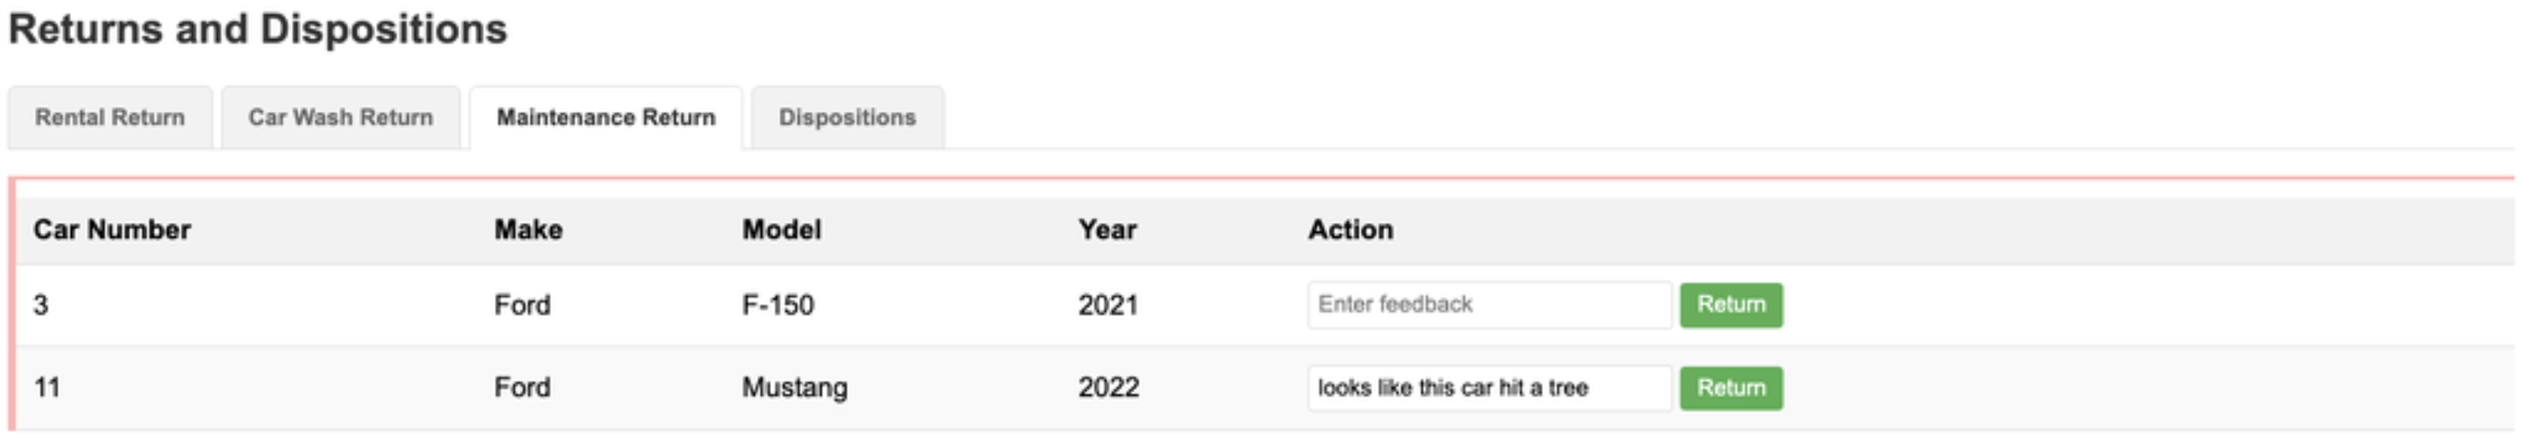
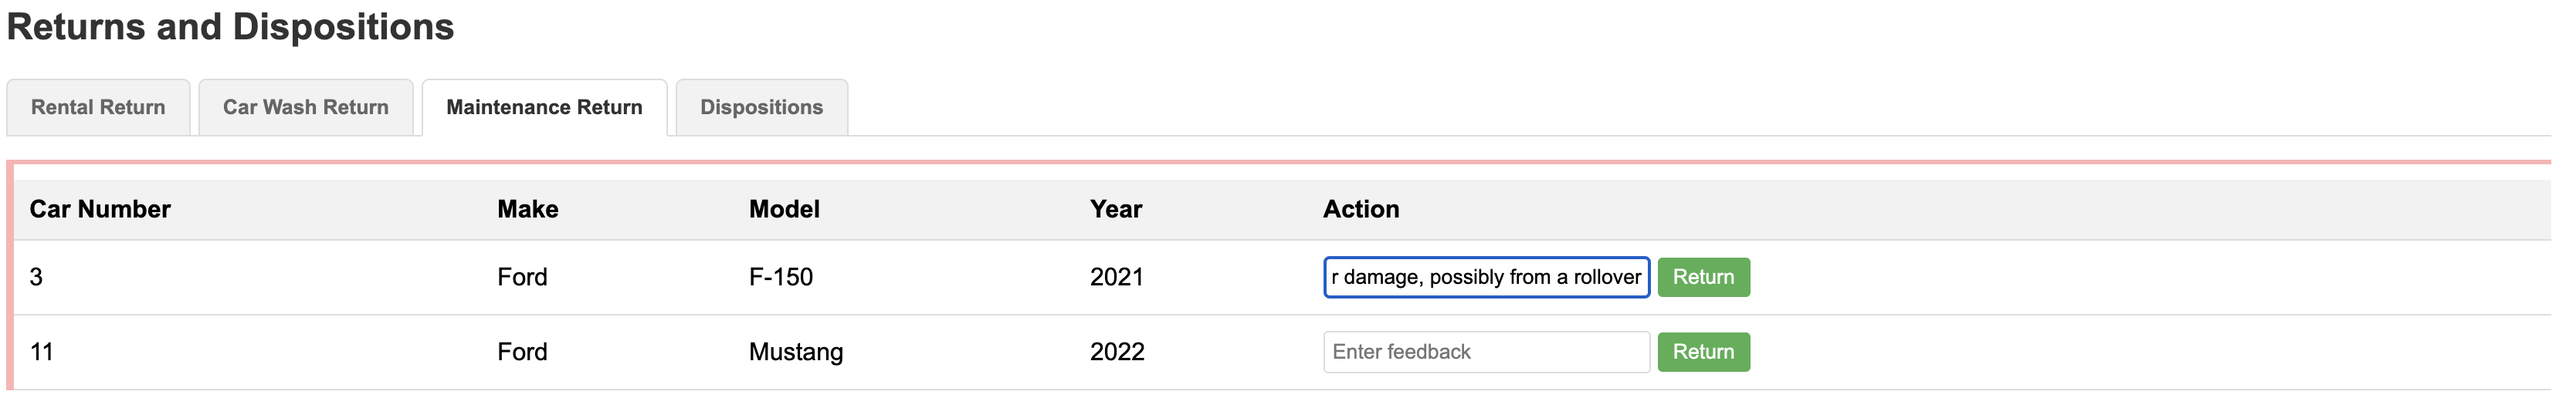
clarify section-2 step-04

diff --git a/docs/docs/section-2/step-04.md b/docs/docs/section-2/step-04.md
@@ -71,7 +71,7 @@ Create a `DispositionFeedbackAgent` to analyze the feedback from rental returns,
 
 In the system prompt, instruct the agent to include `DISPOSITION_NOT_REQUIRED` in its response if the car is in decent shape so that we can easily check for that string when we build our conditional agents.
 
-Create the file in your `src/main/java/com/carmanagement/agentic/agents` directory.
+Create the file in your `multi-agent-system/src/main/java/com/carmanagement/agentic/agents` directory.
 
 ```java hl_lines="17" title="DispositionFeedbackAgent.java"
 --8<-- "../../section-2/step-04/multi-agent-system/src/main/java/com/carmanagement/agentic/agents/DispositionFeedbackAgent.java"
@@ -81,7 +81,7 @@ Create the file in your `src/main/java/com/carmanagement/agentic/agents` directo
 
 For the disposition agent, in Quarkus runtime 1 we need to create an agent to be used as a type-safe interface for us to invoke the remote A2A agent. This agent will not need to interact with LLMS, so it shouldn't have system message or user message annotations. The parameters we define on the agent method define what will be sent to the remote agent.
 
-Create the file in your `src/main/java/com/carmanagement/agentic/agents` directory.
+Create the file in your `multi-agent-system/src/main/java/com/carmanagement/agentic/agents` directory.
 
 ```java title="DispositionAgent.java"
 --8<-- "../../section-2/step-04/multi-agent-system/src/main/java/com/carmanagement/agentic/agents/DispositionAgent.java"
@@ -91,7 +91,7 @@ Create the file in your `src/main/java/com/carmanagement/agentic/agents` directo
 
 We need to extend our ActionWorkflow to accept the disposition feedback agent's output. The `DispositionFeedbackAgent` uses an `outputName` of `dispositionRequest`.
 
-Update the file in your `src/main/java/com/carmanagement/agentic/workflow` directory.
+Update the file in your `multi-agent-system/src/main/java/com/carmanagement/agentic/workflow` directory.
 
 ```java hl_lines="10" title="ActionWorkflow.java"
 --8<-- "../../section-2/step-04/multi-agent-system/src/main/java/com/carmanagement/agentic/workflow/ActionWorkflow.java:actionWorkflow"
@@ -101,7 +101,7 @@ Update the file in your `src/main/java/com/carmanagement/agentic/workflow` direc
 
 Similarly, we need to modify the `CarConditionFeedbackAgent` to use the output from the `DispositionFeedbackAgent`.
 
-Update the file in your `src/main/java/com/carmanagement/agentic/agents` directory.
+Update the file in your `multi-agent-system/src/main/java/com/carmanagement/agentic/agents` directory.
 
 ```java hl_lines="11 20" title="CarConditionFeedbackAgent.java"
 --8<-- "../../section-2/step-04/multi-agent-system/src/main/java/com/carmanagement/agentic/agents/CarConditionFeedbackAgent.java:carConditionFeedback"
@@ -111,7 +111,7 @@ Update the file in your `src/main/java/com/carmanagement/agentic/agents` directo
 
 We need to make a few changes to our `CarManagementService` to define agents and workflows:
 
-Update the file in your `src/main/java/com/carmanagement/service` directory.
+Update the file in your `multi-agent-system/src/main/java/com/carmanagement/service` directory.
 
 ```java hl_lines="75-78 86-90 108 114-118 197-200" title="CarManagementService.java"
 --8<-- "../../section-2/step-04/multi-agent-system/src/main/java/com/carmanagement/service/CarManagementService.java"
@@ -153,7 +153,7 @@ The setup script you ran earlier created the second Quarkus project `remote-a2a-
 
 Let's create a `DispositionTool` that can be used by the `DispositionAgent` to request disposition of cars. The tool should be able to handle scrapping the car, selling it, or donating it. 
 
-Create the file in your `src/main/java/com/demo` directory.
+Create the file in your `remote-a2a-agent/src/main/java/com/demo` directory.
 
 ```java title="DispositionTool.java"
 --8<-- "../../section-2/step-04/remote-a2a-agent/src/main/java/com/demo/DispositionTool.java"
@@ -165,7 +165,7 @@ Here, let's use an AI service (introduced in `section-1`) rather than an agent, 
 
 Create the disposition AI service, providing it a `ToolBox` that contains the `DispositionTool`. This will enable the AI Service to call the `DispositionTool` to request disposition. For ease of parameter passing, let's use the same method signature for this `DispositionAgent` as we did for the client `DispositionAgent`.
 
-Create the file in your `src/main/java/com/demo` directory.
+Create the file in your `remote-a2a-agent/src/main/java/com/demo` directory.
 
 ```java title="DispositionAgent.java (remote)"
 --8<-- "../../section-2/step-04/remote-a2a-agent/src/main/java/com/demo/DispositionAgent.java"
@@ -185,7 +185,7 @@ The agent card provides:
 
 This information is provided to clients that connect to the A2A server so that they know when and how to use the agent.
 
-Create the file in your `src/main/java/com/demo` directory.
+Create the file in your `remote-a2a-agent/src/main/java/com/demo` directory.
 
 ```java title="DispositionAgentCard.java"
 --8<-- "../../section-2/step-04/remote-a2a-agent/src/main/java/com/demo/DispositionAgentCard.java"
@@ -205,7 +205,7 @@ In the execute method we need to take action on the task:
 
 - We put the agent's response into an artifact in the `Task` and mark the task complete. This will result in the response being made available to the A2A client agent.
 
-Create the file in your `src/main/java/com/demo` directory.
+Create the file in your `remote-a2a-agent/src/main/java/com/demo` directory.
 
 ```java hl_lines="39-43 48-56 59-65 68-71" title="DispositionAgentExecutor.java"
 --8<-- "../../section-2/step-04/remote-a2a-agent/src/main/java/com/demo/DispositionAgentExecutor.java"
@@ -225,7 +225,7 @@ After reloading the UI, you should see the **Returns** section is now called **R
 On the **Maintenance Return** tab, select a car and try entering feedback that would suggest there is something wrong (so that it should be disposed of). For example:
 
 ```
-looks like this car hit a tree
+this vehicle has major damage, possibly from a rollover
 ```
 
 ![Maintenance Returns Tab](../images/agentic-UI-maintenance-returns-2.png){: .center}
@@ -233,5 +233,5 @@ looks like this car hit a tree
 In the logs of Quarkus runtime 2, you should be able to see that the disposition agent called its disposition tool and the tool initiated the disposition of the vehicle.
 
 ```
-DispositionTool result: Car disposition requested for Ford Mustang (2022), Car #11: Scrap the car
+DispositionTool result: Car disposition requested for Ford F-150 (2021), Car #3: Scrap the car
 ```
